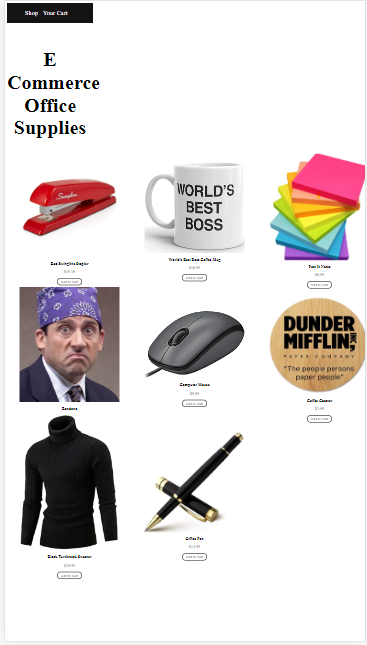
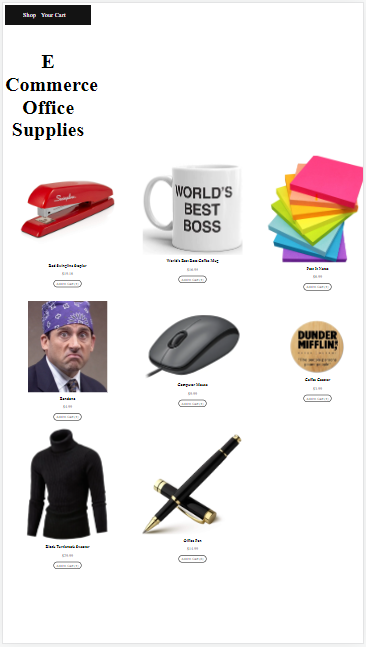
updating css for mobile

diff --git a/src/assets/styles.css/shop.css b/src/assets/styles.css/shop.css
@@ -52,8 +52,30 @@
     cursor: pointer;
   }
 
-  @media (max-width: 516px) {
-      .product{
-        
-      }
+@media (max-width: 1480px) {
+    .products{
+      grid-template-columns: 1fr 1fr;
     }
+    .shopTitle{
+      font-size: 25px;
+    }
+    .product img {
+      max-width: 300px;
+    }
+}
+
+@media (max-width: 925px) {
+  .products{
+    display:flex;
+    flex-direction: column;    
+  }
+  .shopTitle {
+    font-size: 12px;
+  }
+  .product img {
+    max-width: 200px;
+  }
+  .product {
+    margin: 1rem auto;
+  }
+}

diff --git a/src/assets/styles.css/cart.css b/src/assets/styles.css/cart.css
@@ -41,3 +41,18 @@
     margin: 10px;
     cursor: pointer;
   }
+
+  @media (max-width: 725px) {
+    .cartItem{
+      max-width: 200px;
+      display: block;
+    }
+    .cartItem img{
+      max-width: 100px;
+      margin-top: 1rem;
+    }
+    .cartItem .description {
+      width: 100%;
+      font-size: 12px;
+    }
+  }

diff --git a/README.md b/README.md
@@ -10,6 +10,7 @@
 </p>
 ### Model DB is an API, Views handles React .jsx and Controller is handled in App.js 
 
+#### TODO round subtotal to $0.00
 #### TODO Add Social Links GitHub, LinkedIn, Profile Website, Twitter, AngelList Talent/Wellfound with FontAwesome
 #### TODO Add media queries to the css
 #### TODO Create a checkout.jsx under views folder for a checkout 
